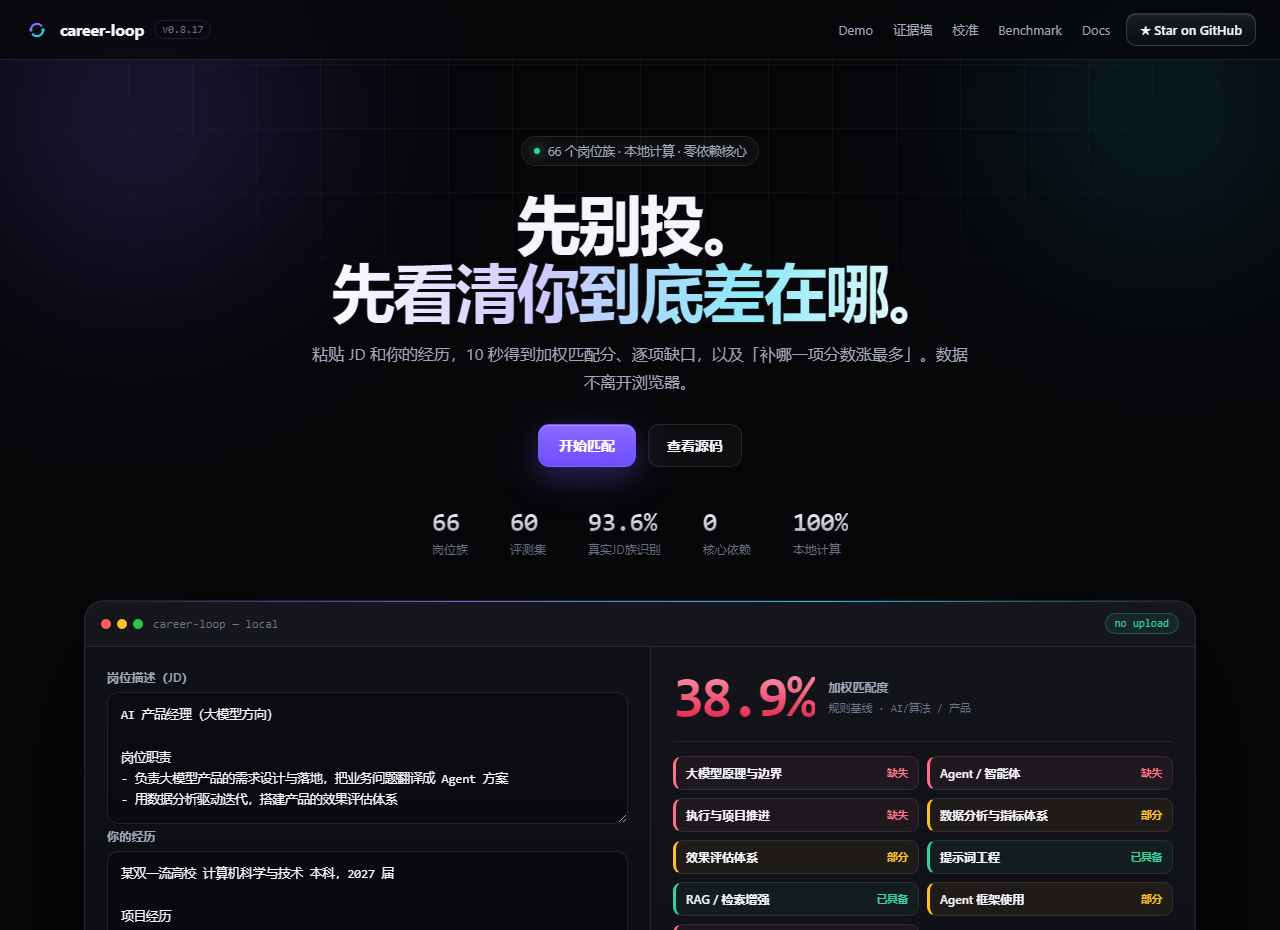
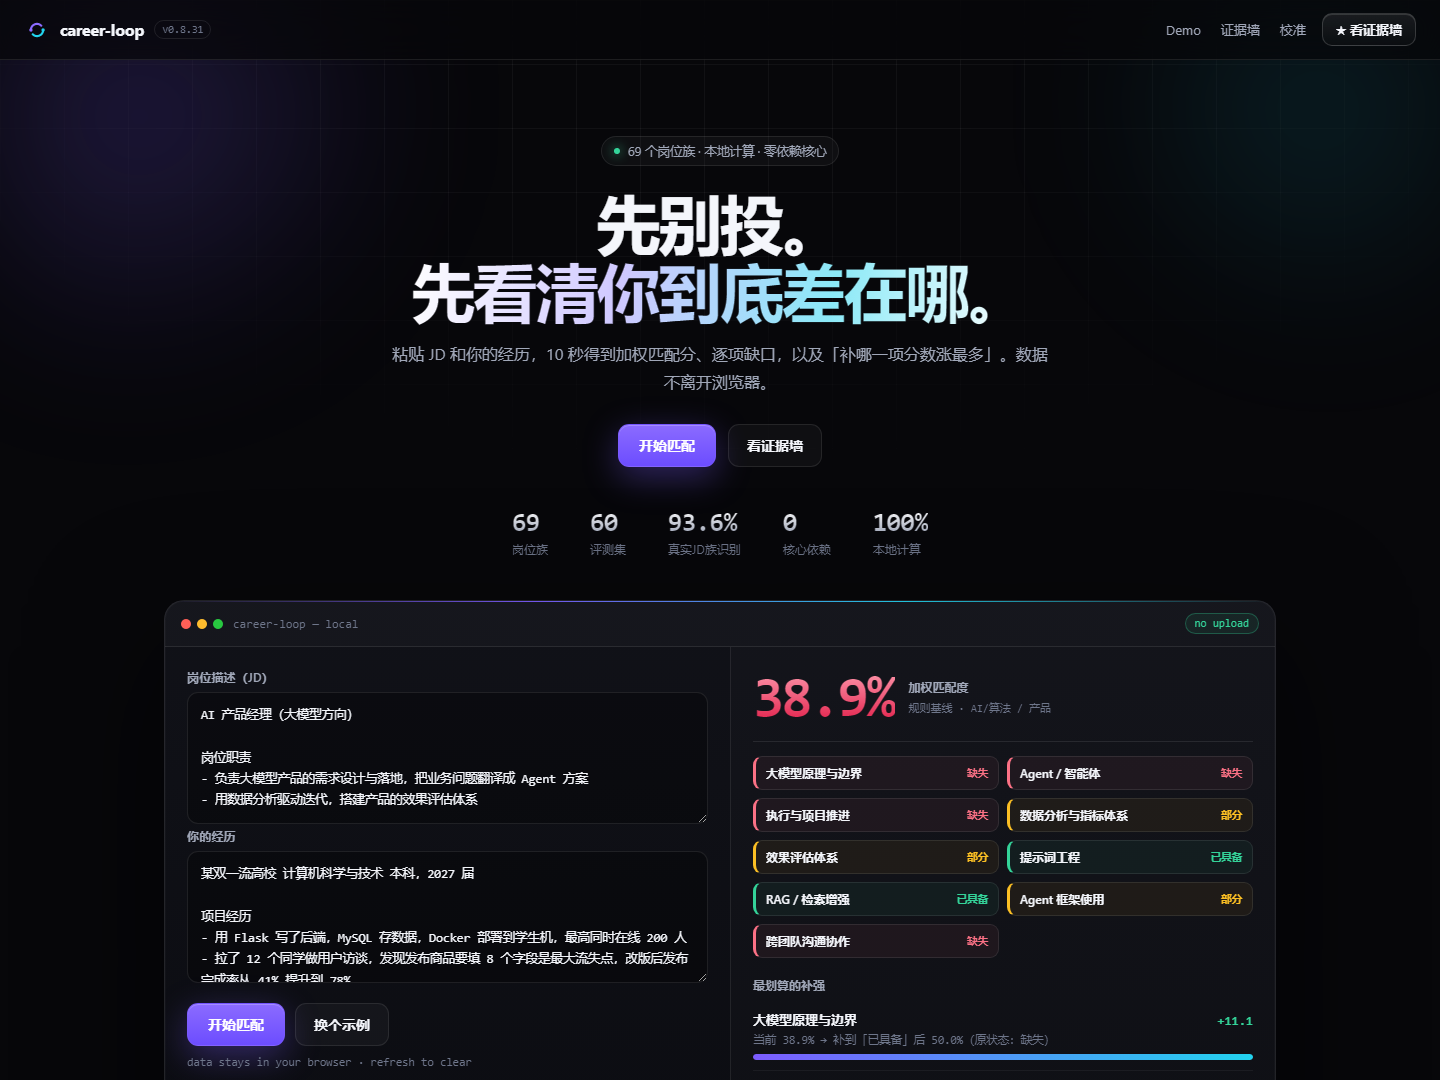
fix(web): 首屏岗位族数字改为 69，清除发布版 GitHub 死链，重制截图
截图核对时发现的三类问题，都会直接影响投稿评审印象：

1. 事实错误：首屏 pill 与 stats 仍写「66 个岗位族」，实际 69（66 是
   「已建词表岗位」口径，页内那处保留未动，两个口径不能混）。
2. 死链：仓库未推送，页面上「★ Star on GitHub / 查看源码 / Benchmark /
   Docs / 页脚 GitHub」全是 404。发布版（standalone）改为页内锚点或移除：
   star-btn →「★ 看证据墙」，查看源码 →「看证据墙」，导航两项与页脚两项删除，
   reflow_sample.md 的链接降级为纯文本。index.html 保持原样，等仓库推上去自然可用。
3. 过期截图：demo.png / demo-finance.png / og-cover.png 都还是 v0.8.17、66 岗位族、
   带 Star on GitHub 按钮的旧版。全部重制：
   - demo.png / demo-finance.png：Edge 无头截当前页面（1440×1080），
     财务示例走页面已有的 ?s=2 参数，含新增的「导出 PDF / 打印」按钮
   - og-cover.png：用页面同款配色重建 1200×630 封面

build_standalone.py 增补：
- STANDALONE_REWRITES 死链规则 + _missed_rewrites()/_leftover_github() 自检，
  --check 会在页面结构变动导致规则失效时报错（否则死链会无声回归）
- OG_IMAGE_URL 换成新封面直链，并注明发布态平台会覆写该字段

锁：单测 238 / audit 41/41 / 词表同步 / standalone 同步 / 网页冒烟 19+4。

diff --git a/docs/standalone.html b/docs/standalone.html
@@ -10,7 +10,7 @@
   <meta property="og:type" content="website">
   <meta property="og:title" content="career-loop · 先别投，先看清你差在哪">
   <meta property="og:description" content="粘贴 JD 和经历，10 秒得到可证伪的匹配分、逐项缺口，以及补哪一项分数涨最多。纯前端、数据不上传。">
-  <meta property="og:image" content="https://workbuddy-space-static.codebuddy.work/image/yj1WAybxQJLPzXVC8kBIih.png">
+  <meta property="og:image" content="https://workbuddy-space-static.codebuddy.work/image/YQRodiSCInA07aGtmqhThx.png">
   <meta property="og:image:width" content="1200">
   <meta property="og:image:height" content="630">
   <meta property="og:url" content="https://workbuddy.link/p/Jt3O7bi3SUFYI3SG1iOVDE">
@@ -18,7 +18,7 @@
   <meta name="twitter:card" content="summary_large_image">
   <meta name="twitter:title" content="career-loop · 先别投，先看清你差在哪">
   <meta name="twitter:description" content="粘贴 JD 和经历，10 秒得到可证伪的匹配分、逐项缺口。纯前端、数据不上传。">
-  <meta name="twitter:image" content="https://workbuddy-space-static.codebuddy.work/image/yj1WAybxQJLPzXVC8kBIih.png">
+  <meta name="twitter:image" content="https://workbuddy-space-static.codebuddy.work/image/YQRodiSCInA07aGtmqhThx.png">
 <style>
 
   :root{
@@ -522,22 +522,20 @@
     <a href="#app">Demo</a>
     <a href="#evidence">证据墙</a>
     <a href="#calibrate">校准</a>
-    <a href="https://github.com/jian935/career-loop/tree/main/benchmark">Benchmark</a>
-    <a href="https://github.com/jian935/career-loop/tree/main/docs">Docs</a>
   </div>
-  <a class="star-btn" href="https://github.com/jian935/career-loop" target="_blank" rel="noopener">★ Star on GitHub</a>
+  <a class="star-btn" href="#evidence">★ 看证据墙</a>
 </nav>
 
 <header class="hero">
-  <div class="pill"><span class="dot"></span>66 个岗位族 · 本地计算 · 零依赖核心</div>
+  <div class="pill"><span class="dot"></span>69 个岗位族 · 本地计算 · 零依赖核心</div>
   <h1>先别投。<br><span class="grad">先看清你到底差在哪。</span></h1>
   <p class="lead">粘贴 JD 和你的经历，10 秒得到加权匹配分、逐项缺口，以及「补哪一项分数涨最多」。数据不离开浏览器。</p>
   <div class="cta">
     <a class="btn-primary" href="#app">开始匹配</a>
-    <a class="btn-ghost" href="https://github.com/jian935/career-loop" target="_blank" rel="noopener">查看源码</a>
+    <a class="btn-ghost" href="#evidence">看证据墙</a>
   </div>
   <div class="stats">
-    <div><b>66</b><span>岗位族</span></div>
+    <div><b>69</b><span>岗位族</span></div>
     <div><b>60</b><span>评测集</span></div>
     <div><b>93.6%</b><span>真实JD族识别</span></div>
     <div><b>0</b><span>核心依赖</span></div>
@@ -612,7 +610,7 @@
       </select>
       <button id="exportDailyBtn" class="btn-export">导出今日清单</button>
     </div>
-    <p class="hint" id="batchHint">排序用「匹配分」给岗位打分并附最划算补强；全行业适配用你经历里的关键词覆盖 66 个岗位族的能力项。<br>
+    <p class="hint" id="batchHint">排序用「匹配分」给岗位打分并附最划算补强；全行业适配用你经历里的关键词覆盖 69 个岗位族的能力项。<br>
       <b>今日清单</b>会再抽出<b>截止日</b>，改成「先到期先投」的顺序，每条写清日期来源（JD 原文 / JD 没给）——<b>猜出来的日期绝不伪装成确定的</b>，所以没抓到就明说没抓到。</p>
     <h3 style="font-size:13px;color:var(--sub);margin:18px 0 10px"><span id="rankHead">该投哪些（按匹配分排序）</span></h3>
     <div class="rank-list" id="rankList"></div>
@@ -790,7 +788,7 @@
         </div>
       </div>
       <p class="rf-foot">
-        完整报告（含逐条明细表、方向对比、边界声明）：<a href="https://github.com/jian935/career-loop/blob/main/docs/reflow_sample.md">docs/reflow_sample.md</a><br>
+        完整报告（含逐条明细表、方向对比、边界声明）：<code>docs/reflow_sample.md</code><br>
         自己也跑一遍：<code>career-loop reflow --records &lt;你的投递记录&gt; --profile &lt;你的经历&gt; --mode terminal</code><br>
         <b>数据定位</b>：样例 / 验证数据（D001–D040 与 D041–D090 同源同格式、时间连续），
         用于展示流水线在真实中文 JD 上的行为，<b>不</b>作为作者真实求职记录对外宣称。
@@ -945,7 +943,7 @@
 
 <footer class="foot">
   <span>MIT · 本地优先 · 匹配分可证伪</span>
-  <span><a href="https://github.com/jian935/career-loop">GitHub</a> · <a href="https://github.com/jian935/career-loop/tree/main/docs">方法论</a> · <button type="button" class="linkbtn" onclick="try{navigator.clipboard.writeText(location.href);alert('链接已复制，带上活动话题去分享吧～');}catch(e){alert('请手动复制地址栏链接分享～');}">复制本页链接</button></span>
+  <span><button type="button" class="linkbtn" onclick="try{navigator.clipboard.writeText(location.href);alert('链接已复制，带上活动话题去分享吧～');}catch(e){alert('请手动复制地址栏链接分享～');}">复制本页链接</button></span>
 </footer>
 
 <div id="reportPrint"></div>

diff --git a/docs/index.html b/docs/index.html
@@ -528,7 +528,7 @@
 </nav>
 
 <header class="hero">
-  <div class="pill"><span class="dot"></span>66 个岗位族 · 本地计算 · 零依赖核心</div>
+  <div class="pill"><span class="dot"></span>69 个岗位族 · 本地计算 · 零依赖核心</div>
   <h1>先别投。<br><span class="grad">先看清你到底差在哪。</span></h1>
   <p class="lead">粘贴 JD 和你的经历，10 秒得到加权匹配分、逐项缺口，以及「补哪一项分数涨最多」。数据不离开浏览器。</p>
   <div class="cta">
@@ -536,7 +536,7 @@
     <a class="btn-ghost" href="https://github.com/jian935/career-loop" target="_blank" rel="noopener">查看源码</a>
   </div>
   <div class="stats">
-    <div><b>66</b><span>岗位族</span></div>
+    <div><b>69</b><span>岗位族</span></div>
     <div><b>60</b><span>评测集</span></div>
     <div><b>93.6%</b><span>真实JD族识别</span></div>
     <div><b>0</b><span>核心依赖</span></div>
@@ -611,7 +611,7 @@
       </select>
       <button id="exportDailyBtn" class="btn-export">导出今日清单</button>
     </div>
-    <p class="hint" id="batchHint">排序用「匹配分」给岗位打分并附最划算补强；全行业适配用你经历里的关键词覆盖 66 个岗位族的能力项。<br>
+    <p class="hint" id="batchHint">排序用「匹配分」给岗位打分并附最划算补强；全行业适配用你经历里的关键词覆盖 69 个岗位族的能力项。<br>
       <b>今日清单</b>会再抽出<b>截止日</b>，改成「先到期先投」的顺序，每条写清日期来源（JD 原文 / JD 没给）——<b>猜出来的日期绝不伪装成确定的</b>，所以没抓到就明说没抓到。</p>
     <h3 style="font-size:13px;color:var(--sub);margin:18px 0 10px"><span id="rankHead">该投哪些（按匹配分排序）</span></h3>
     <div class="rank-list" id="rankList"></div>

diff --git a/scripts/build_standalone.py b/scripts/build_standalone.py
@@ -45,11 +45,47 @@ MIME = {
     ".webp": "image/webp",
 }
 
-#: 页面里指向本地文件的链接 → 改写成指向仓库里的公开地址。
-#: 单文件分发时点这些链接会 404，所以给它们一个不依赖托管布局的落点。
-LINK_REWRITES = {
-    "reflow_sample.md": "https://github.com/jian935/career-loop/blob/main/docs/reflow_sample.md",
-}
+#: 页面里指向本地文件的链接 → 目标地址。
+#: 当前只有 reflow 样例，但它唯一的落点是仓库（尚未推送），
+#: 因此不在这里改写成 URL，而是由 STANDALONE_REWRITES 降级成纯文本。
+#: 保留这个映射是为了将来有真正可用的落点时直接加一条即可。
+LINK_REWRITES: dict[str, str] = {}
+
+#: 单文件分发版要去掉的 GitHub 死链。
+#: 仓库尚未推送时，页面上「Star on GitHub / 查看源码 / Benchmark / Docs」点了都是 404，
+#: 投稿评审一旦点开就是负面印象。发布版把它们换成页内锚点或直接移除；
+#: `docs/index.html` 保持原样——等仓库推上去，Pages 版这些链接自然可用。
+STANDALONE_REWRITES: list[tuple[str, str]] = [
+    # 导航里两个指向仓库目录的入口
+    (
+        '    <a href="https://github.com/jian935/career-loop/tree/main/benchmark">Benchmark</a>\n'
+        '    <a href="https://github.com/jian935/career-loop/tree/main/docs">Docs</a>\n',
+        "",
+    ),
+    # 右上角主行动按钮：从「去给仓库点星」改成「看证据墙」（本页就有）
+    (
+        '<a class="star-btn" href="https://github.com/jian935/career-loop" '
+        'target="_blank" rel="noopener">★ Star on GitHub</a>',
+        '<a class="star-btn" href="#evidence">★ 看证据墙</a>',
+    ),
+    # hero 次按钮：查看源码 → 看证据墙
+    (
+        '<a class="btn-ghost" href="https://github.com/jian935/career-loop" '
+        'target="_blank" rel="noopener">查看源码</a>',
+        '<a class="btn-ghost" href="#evidence">看证据墙</a>',
+    ),
+    # 页脚：两个仓库链接去掉，保留「复制本页链接」
+    (
+        '<a href="https://github.com/jian935/career-loop">GitHub</a> · '
+        '<a href="https://github.com/jian935/career-loop/tree/main/docs">方法论</a> · ',
+        "",
+    ),
+    # 证据墙里的脱敏样例报告：仓库未推送前没有公开地址，降级成纯文本，不留死链
+    (
+        '<a href="reflow_sample.md">docs/reflow_sample.md</a>',
+        "<code>docs/reflow_sample.md</code>",
+    ),
+]
 
 BANNER = (
     "<!-- 由 scripts/build_standalone.py 从 docs/index.html 生成，请勿直接编辑；"
@@ -62,7 +98,9 @@ PUBLISH_URL = "https://workbuddy.link/p/Jt3O7bi3SUFYI3SG1iOVDE"
 
 #: 封面图的公网直链（资源库静态域，1200×630）。
 #: 社媒抓取要求 og:image 是绝对 URL —— 相对路径 `og-cover.png` 会导致卡片无图。
-OG_IMAGE_URL = "https://workbuddy-space-static.codebuddy.work/image/yj1WAybxQJLPzXVC8kBIih.png"
+#: 注：实测 workbuddy.link 发布态会覆写 og:image 为平台默认图标，这里的值实际不生效；
+#: 仍然写对是为了平台策略变化时不用回头改，且不影响页面本身的渲染。
+OG_IMAGE_URL = "https://workbuddy-space-static.codebuddy.work/image/YQRodiSCInA07aGtmqhThx.png"
 
 
 def _set_meta(html: str, key: str, value: str) -> str:
@@ -103,6 +141,10 @@ def build(src: Path = SRC) -> str:
     for local, remote in LINK_REWRITES.items():
         html = html.replace(f'href="{local}"', f'href="{remote}"')
 
+    # 2b) 去掉/替换 GitHub 死链（仓库未推送前，发布版不该出现点了 404 的入口）
+    for old, new in STANDALONE_REWRITES:
+        html = html.replace(old, new)
+
     # 3) 修正社媒元信息（单文件分发后页面换了地址，元数据必须跟着换）
     html = _set_meta(html, "og:url", PUBLISH_URL)
     html = _set_meta(html, "og:image", OG_IMAGE_URL)
@@ -119,6 +161,22 @@ def build(src: Path = SRC) -> str:
     return html
 
 
+def _missed_rewrites(src: Path = SRC) -> list[str]:
+    """返回在 index.html 里找不到的 GitHub 死链规则。
+
+    页面结构一旦变动，规则可能悄悄失效——死链就会无声地回到发布版。
+    所以每次构建都报一次，而不是等评审点开发现 404。
+    """
+    raw = src.read_text(encoding="utf-8")
+    return [old.strip().splitlines()[0][:60] for old, _ in STANDALONE_REWRITES if old not in raw]
+
+
+def _leftover_github(html: str) -> list[str]:
+    """发布版里还剩哪些 github.com 链接（应当只剩 reflow_sample 那个公开文档地址）。"""
+    urls = re.findall(r'href="(https://github\.com/[^"]+)"', html)
+    return sorted(set(urls))
+
+
 def main(argv: list[str] | None = None) -> int:
     ap = argparse.ArgumentParser(description="生成自包含单文件网页（资料库投稿用）")
     ap.add_argument("--check", action="store_true", help="只校验是否最新，不写文件")
@@ -132,6 +190,12 @@ def main(argv: list[str] | None = None) -> int:
         if OUT.read_text(encoding="utf-8") != html:
             print(f"✗ {OUT.relative_to(ROOT)} 已过期，请重新运行 scripts/build_standalone.py")
             return 1
+        missed = _missed_rewrites()
+        if missed:
+            print(f"✗ 有 {len(missed)} 条 GitHub 死链规则没匹配上（页面结构变了？死链会回归）：")
+            for m in missed:
+                print(f"    - {m}")
+            return 1
         print(f"OK {OUT.relative_to(ROOT)} 与 index.html 同步")
         return 0
 
@@ -143,6 +207,15 @@ def main(argv: list[str] | None = None) -> int:
     print(f"  index.html      {src_size / 1024:6.1f} KB")
     print(f"  standalone.html {out_size / 1024:6.1f} KB（图片已内联）")
     print(f"  残留外部图片引用：{leftover or '无'}")
+
+    missed = _missed_rewrites()
+    if missed:
+        print(f"  ⚠ {len(missed)} 条 GitHub 死链规则未命中（页面结构可能变了）：")
+        for m in missed:
+            print(f"     - {m}")
+    remaining = _leftover_github(html)
+    if remaining:
+        print(f"  发布版保留的 github.com 链接（应只有公开文档）：{remaining}")
     return 0
 
 
